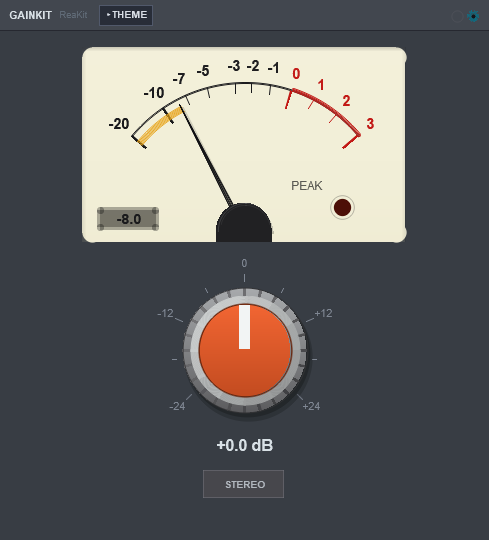
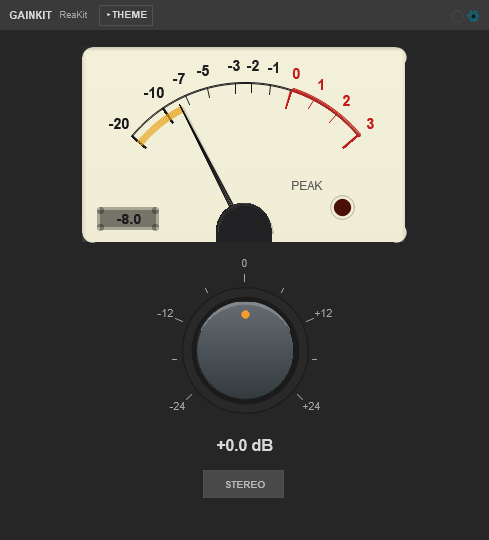
Pictures on the suite's FL Studio theme, a composed cover, GainKit on four themes
The rig publishes a theme the way the bridge does before shooting; the cover is the mixer strips, GainKit's window and the De-Esser's; themes.png shows GainKit on EON, SSL, Neve and Ableton.

diff --git a/README.md b/README.md
@@ -5,10 +5,11 @@ Five free effects for REAPER with EON Studios interfaces, drawn by the
 LOSER, a De-Esser built on Liteon's, and GainKit, EON's own gain-staging plugin. Every face is
 code, no image files, so it scales to any size and renders at full resolution on HiDPI.
 
-![ReaKit FX embedded in the mixer](screenshots/mixer.png)
+![ReaKit FX](screenshots/hero.png)
 
-*All five embedded in the mixer at the default strip width. Click a strip's empty space to open the
-window, click the strip again to close it.*
+*The five embedded in a mixer at the default strip width, GainKit's window and the De-Esser's, on
+the suite's FL Studio theme. Click a strip's empty space to open the window, click the strip again
+to close it.*
 
 ## The plugins
 
@@ -63,6 +64,11 @@ The display shows the band it is listening to.
   which opts an instance out of theming. GainKit's panel also picks the VU's face and has LOCK,
   which freezes that instance's look while the rest follows the theme. DDC keeps its own fixed
   face.
+
+  ![GainKit on four themes](screenshots/themes.png)
+
+  *GainKit on the EON, SSL, Neve and Ableton themes: the colours and the knob follow the theme, the
+  meter is the meter.*
 - **Link groups** — the gear in the header of those four puts an instance in a group; instances
   in the same group move together.
 - **The mouse** — drag a knob, Ctrl for fine, Shift for finer, the wheel steps it, double-click
@@ -97,6 +103,6 @@ The `ReaKit/` folder is a copy of the ReaKit library the plugins import (`import
 the package and the plugins compile. To write your own, start from the
 [ReaKit](https://github.com/mequaz-sudo/ReaKit) repository's showcase and Starter.
 
-*The screenshots are a script's: a sandbox REAPER at 100 % opens each window and embeds the five
-in a mixer, and the pictures are cropped to the plugin's canvas. Every pixel is the plugin drawing
-itself.*
+*The screenshots are a script's: a sandbox REAPER at 100 % publishes a suite theme the way the
+bridge does, feeds the plugins a tone, opens each window and embeds the five in a mixer, and the
+pictures are cropped to the plugin's canvas. Every pixel is the plugin drawing itself.*
